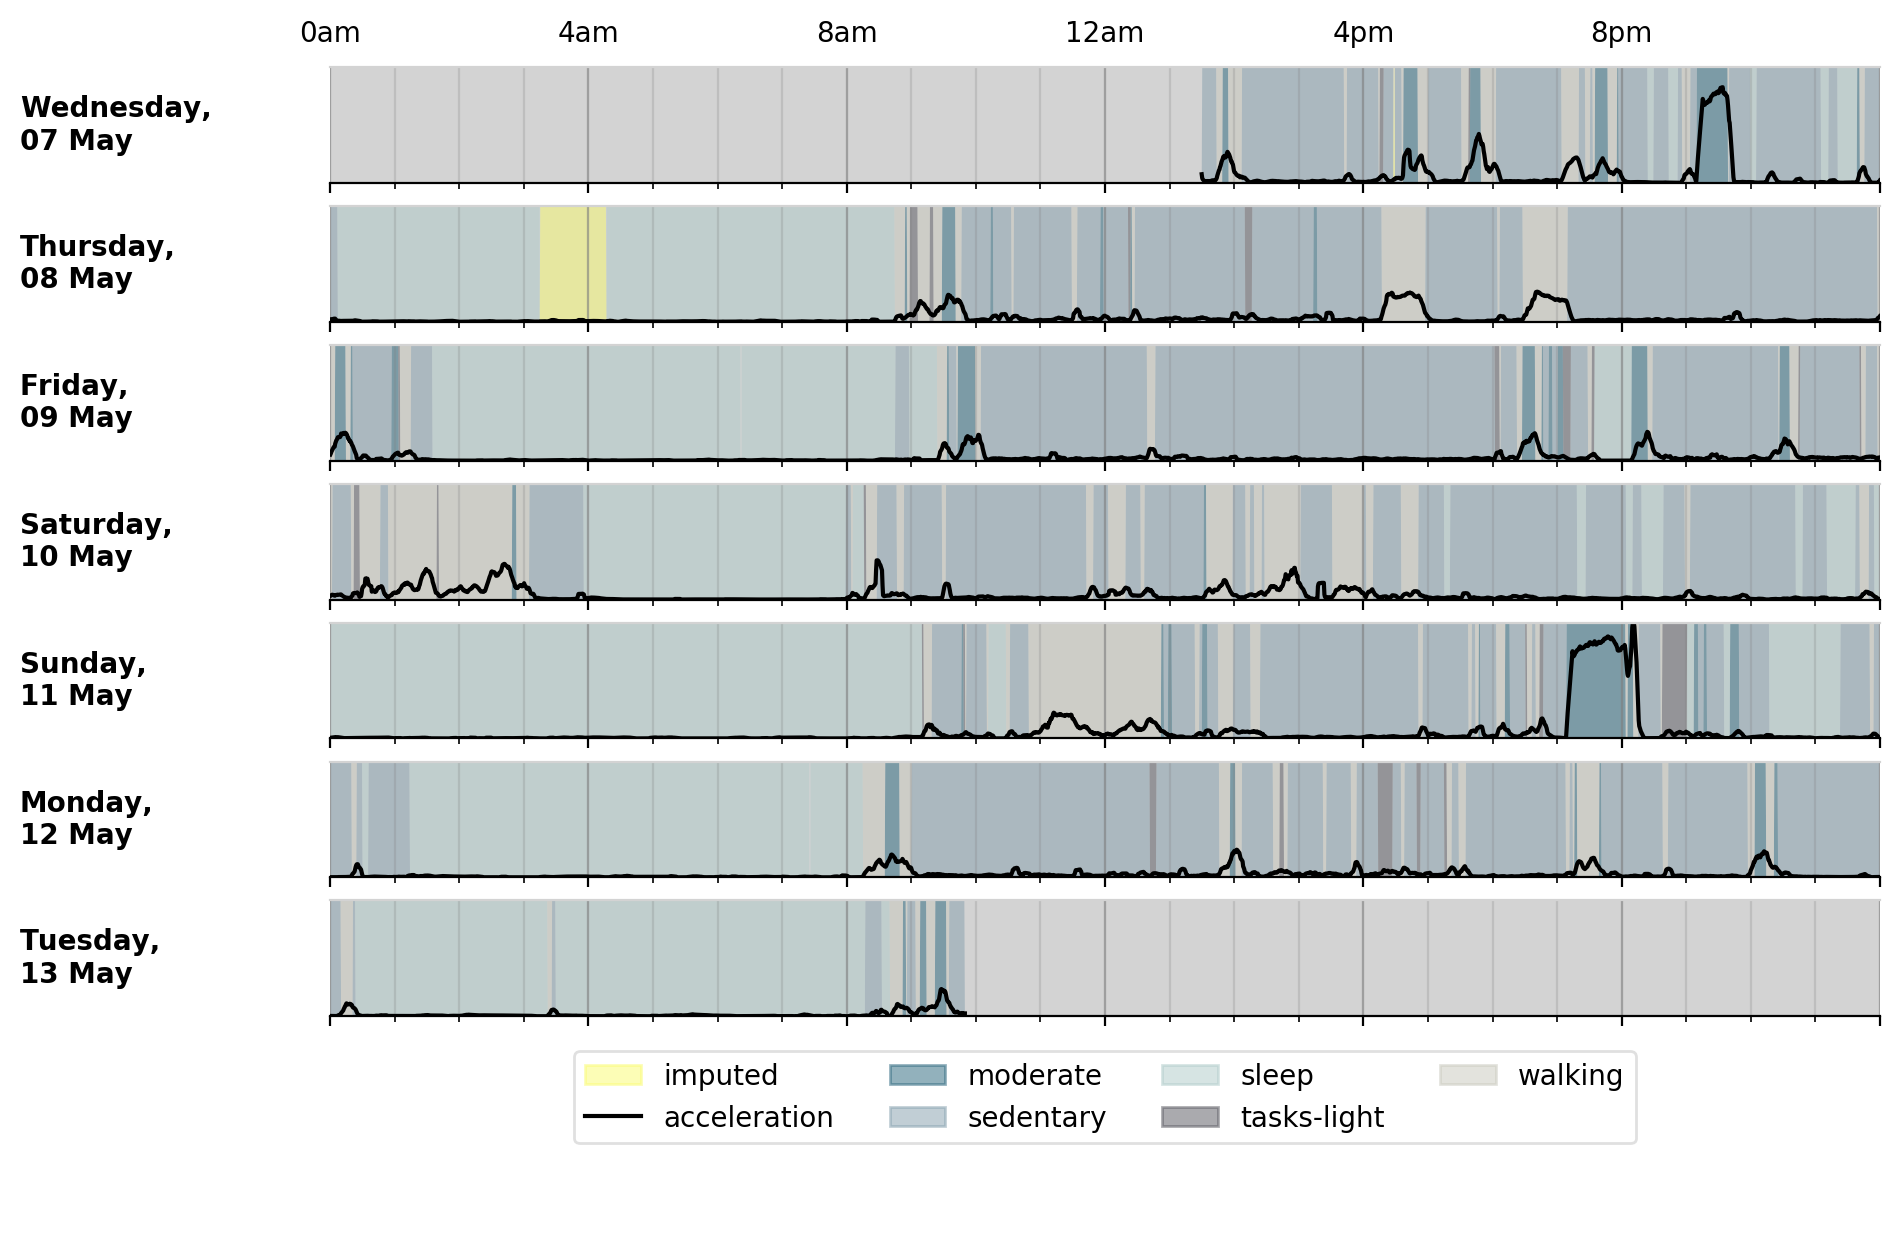
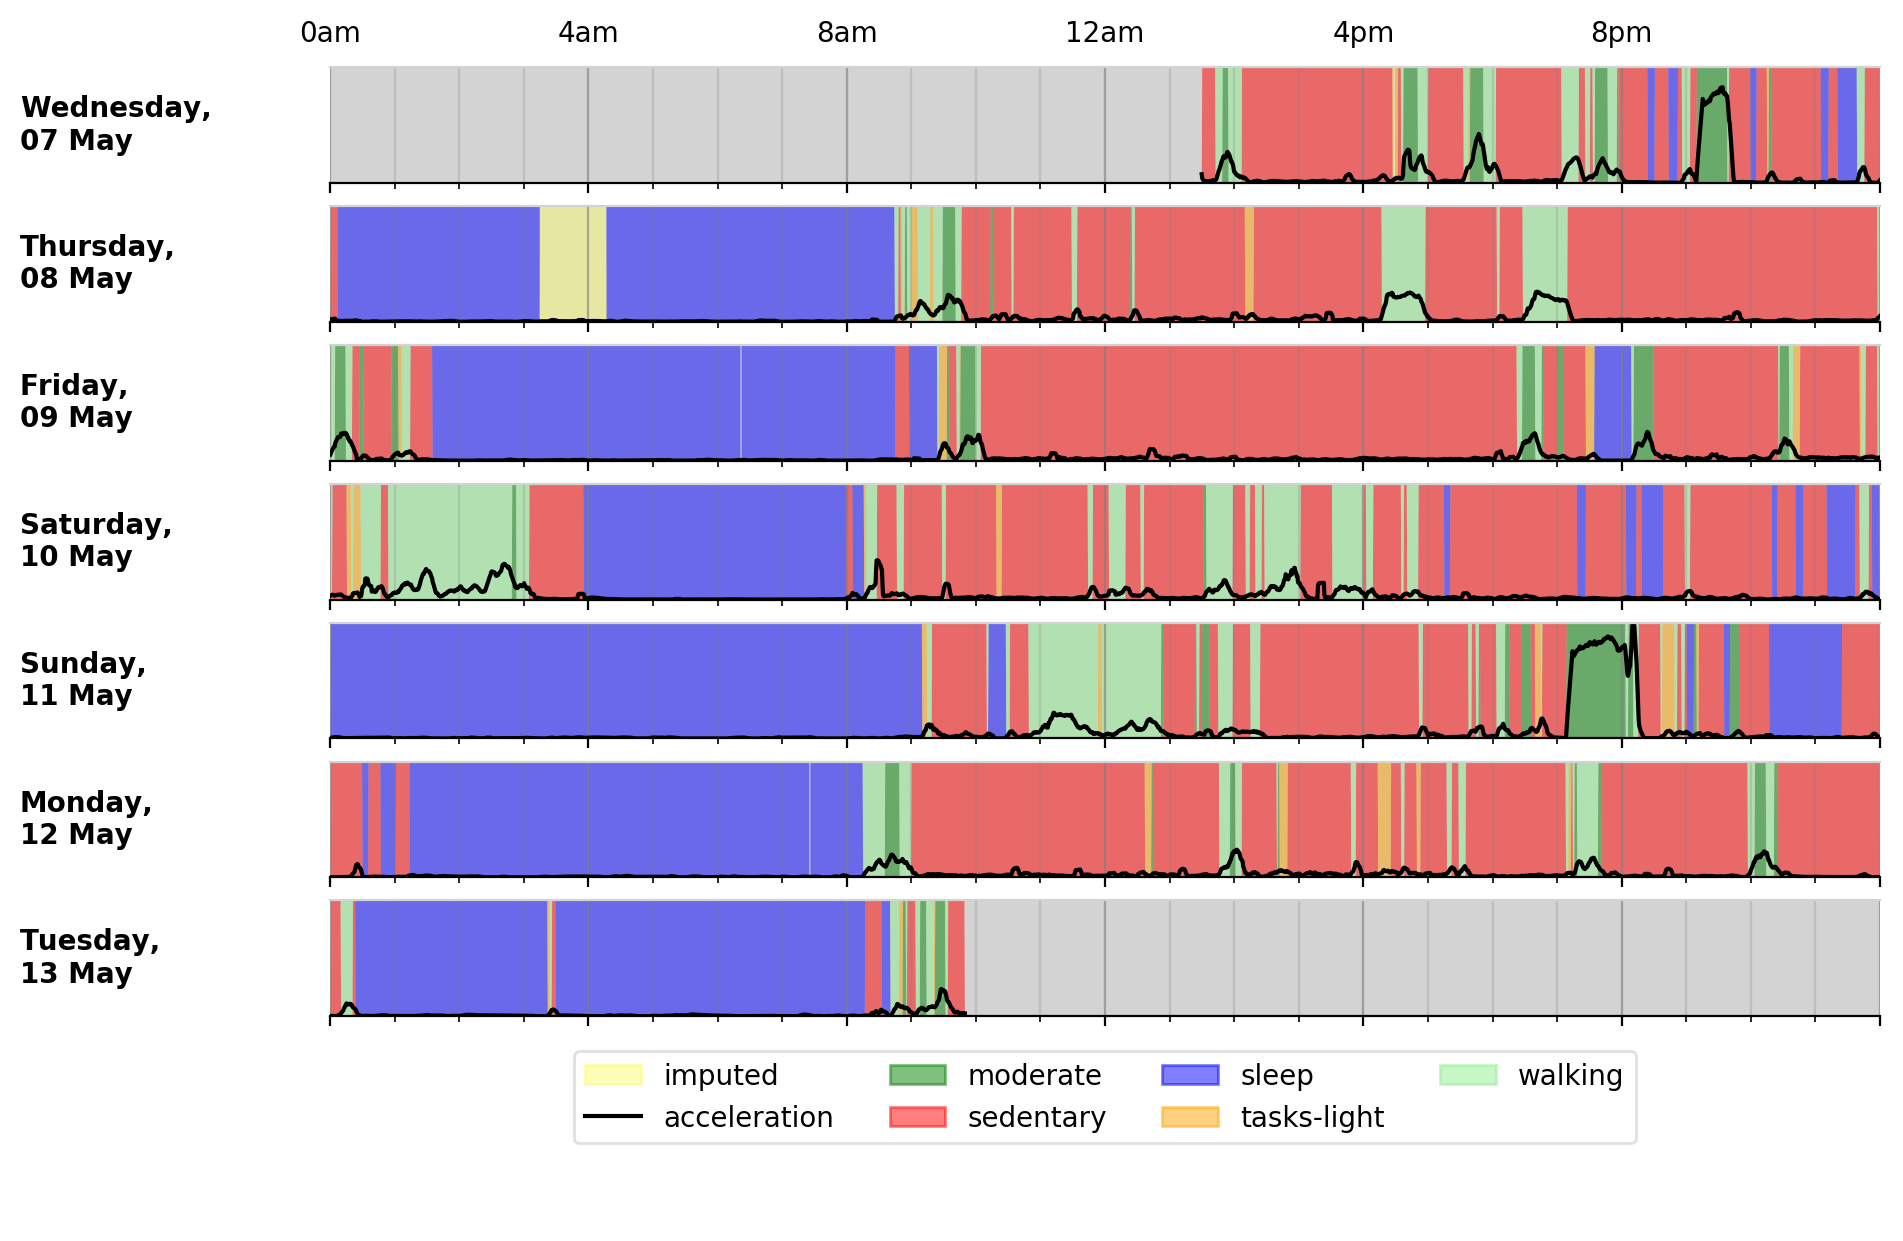
update colour coding of classified activity outputs

diff --git a/accPlot.py b/accPlot.py
@@ -12,15 +12,12 @@ import numpy as np
 import pandas as pd
 import sys
 
-COLOUR_LIST = ['#27647B','#849FAD','#AECBC9','#57575F', "#C9C9BD","#FBEFEE",
-    "#68686F","#333C3E", '#1f77b4', '#ff7f0e', '#9467bd', '#8c564b', '#e377c2', 
-    '#7f7f7f', '#bcbd22', '#17becf', "#000000", "#FFFF00", "#1CE6FF", "#FF34FF", 
-    "#FF4A46", "#008941", "#006FA6", "#A30059", "#FFDBE5", "#7A4900", "#0000A6", 
-    "#63FFAC", "#B79762", "#004D43", "#8FB0FF", "#997D87", "#5A0007", "#809693", 
-    "#FEFFE6", "#1B4400", "#4FC601", "#3B5DFF", "#4A3B53", "#FF2F80", "#61615A", 
-    "#BA0900", "#6B7900", "#00C2A0", "#FFAA92", "#FF90C9", "#B903AA", "#D16100",
-    "#DDEFFF", "#000035", "#7B4F4B", "#A1C299", "#300018", "#0AA6D8", "#013349", 
-    "#00846F"]
+DOHERTY_NatComms_COLOURS = {'sleep':'blue', 'sedentary':'red',
+    'tasks-light':'darkorange', 'walking':'lightgreen', 'moderate':'green'}
+
+WILLETS_SciReports_COLOURS = {'sleep':'blue', 'sit.stand':'red',
+    'vehicle':'darkorange', 'walking':'lightgreen', 'mixed':'green',
+    'bicycling':'purple'}
 
 
 
@@ -36,6 +33,9 @@ def main():
                             help="input .csv.gz time series file to plot")
     parser.add_argument('plotFile', metavar='output file', type=str,
                             help="output .png file to plot to")
+    parser.add_argument('--activityModel', type=str,
+                            default="activityModels/doherty2018.tar",
+                            help="""trained activity model .tar file""")
     
     # check input is ok
     if len(sys.argv) < 3:
@@ -47,15 +47,18 @@ def main():
     args = parser.parse_args()
     
     # and then call plot function
-    plotTimeSeries(args.timeSeriesFile, args.plotFile)
+    plotTimeSeries(args.timeSeriesFile, args.plotFile, 
+        activityModel = args.activityModel)
 
 
 
-def plotTimeSeries(tsFile, plotFile):
+def plotTimeSeries(tsFile, plotFile, 
+    activityModel = "activityModels/doherty2018.tar"):
     """Plot overall activity and classified activity types
 
     :param str tsFile: Input filename with .csv.gz time series data
     :param str tsFile: Output filename for .png image
+    :param str activityModel: Input tar model file used for activity classification
     
     :return: Writes plot to <plotFile>
     :rtype: void
@@ -79,10 +82,12 @@ def plotTimeSeries(tsFile, plotFile):
         if col not in [accUtils.TIME_SERIES_COL, 'imputed', 'acc', 'MET']:
             labels += [col]
     print(labels)
-    labels_as_col = {}
+    if activityModel.endswith("doherty2018.tar"):
+        labels_as_col = DOHERTY_NatComms_COLOURS
+    elif activityModel.endswith("willetts2018.tar"):
+        labels_as_col = WILLETS_SciReports_COLOURS
+    # add imputation label colour
     labels_as_col['imputed'] = '#fafc6f'
-    for i, label in enumerate(labels):
-        labels_as_col[label] = COLOUR_LIST[i]
 
     convert_date = np.vectorize(lambda day, x: matplotlib.dates.date2num(datetime.combine(day, x)))
 

diff --git a/docs/source/usage.rst b/docs/source/usage.rst
@@ -113,6 +113,17 @@ Scientific Reports paper:
 ::
     python3 accProcess.py --activityModel activityModels/willetts2018.tar
 
+To visualise the time series and new activity classification output:
+::
+  python3 accPlot.py data/sample-timeSeries.csv.gz data/sample-plot.png 
+     --activityModel activityModels/willetts2018.tar
+    <output plot written to data/sample-plot.png>
+
+.. figure:: samplePlotWilletts.png
+    
+    Output plot of class predictions using Willetts 2018 classification model. 
+    Note different set of activity classes.
+
 
 **************
 Advanced usage

diff --git a/docs/source/index.rst b/docs/source/index.rst
@@ -45,7 +45,7 @@ The main output JSON will look like:
             quality-goodWearTime: 1
         }
 
-To visualise the time output:
+To visualise the time series and activity classification output:
 ::
   python3 accPlot.py data/sample-timeSeries.csv.gz data/sample-plot.png
     <output plot written to data/sample-plot.png>

diff --git a/README.md b/README.md
@@ -38,7 +38,7 @@ The main JSON output will look like:
 }
 ```
 
-To visualise the time output:
+To visualise the time series and activity classification output:
 ```
 $ python3 accPlot.py data/sample-timeSeries.csv.gz data/sample-plot.png
  <output plot written to data/sample-plot.png>
